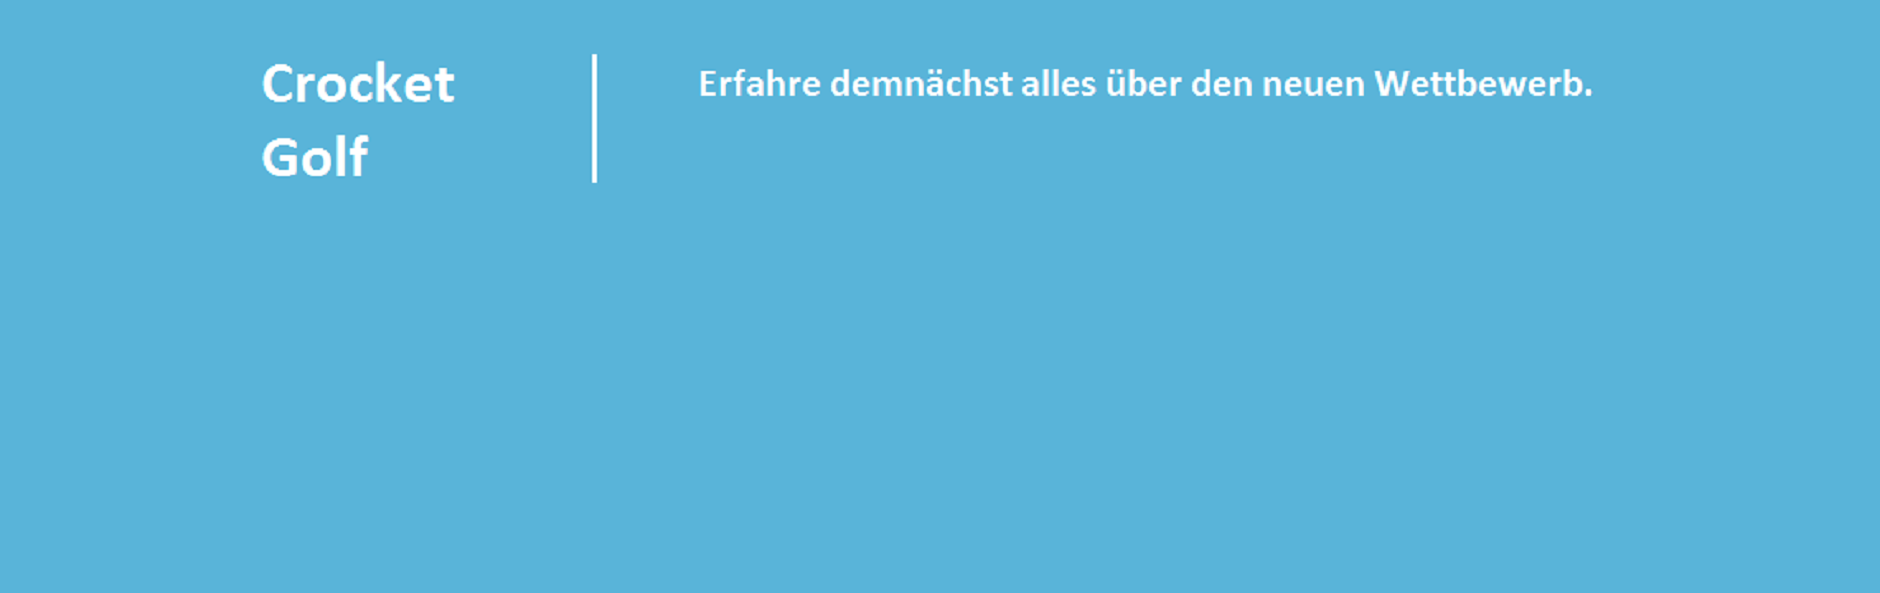
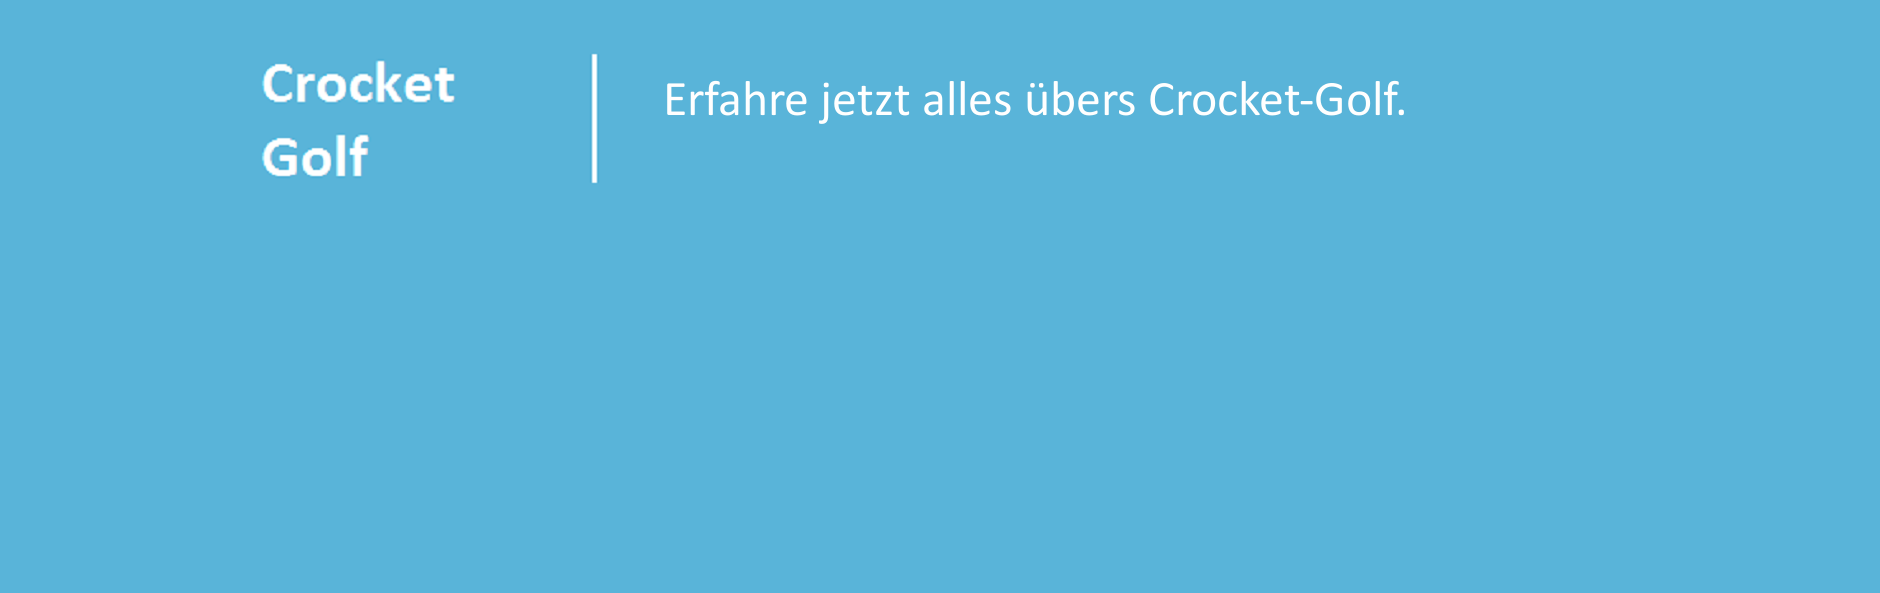
Added contest, official rules for Crocket-Golf, some minor changes to content.

Changed region(s): [[0.3394, 0.1214, 0.8638, 0.2125]]

diff --git a/mad.Ramp-Festival.Web.Public/Controllers/ContestController.cs b/mad.Ramp-Festival.Web.Public/Controllers/ContestController.cs
@@ -19,6 +19,11 @@ namespace mad.Ramp_Festival.Web.Public.Controllers
 			return View();
 		}
 
+		public ActionResult CrocketGolfRules()
+		{
+			return View();
+		}
+
 		public ActionResult GBosseln()
 		{
 			return View();
